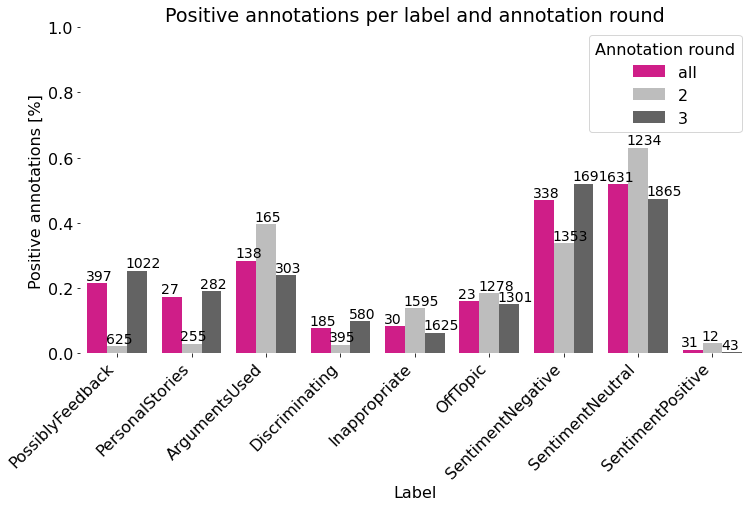
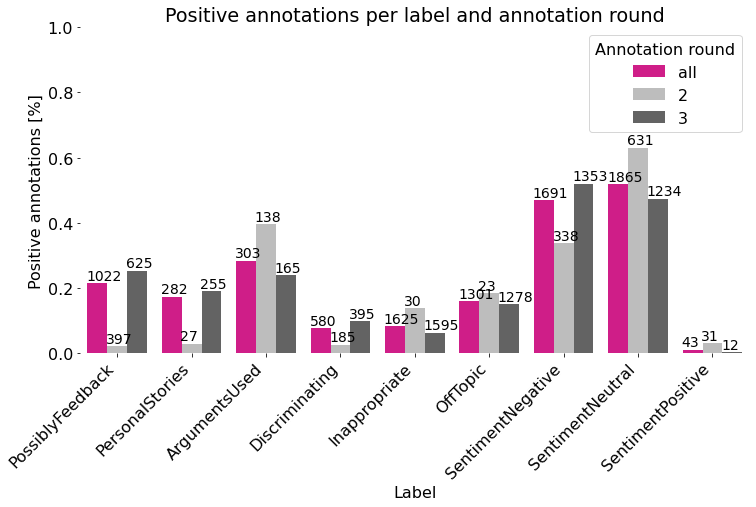
Issue #39 Fix function for annotating counts and update picture

diff --git a/eda_label_distribution.py b/eda_label_distribution.py
@@ -42,6 +42,8 @@ df_ann_counts = df_ann_ext.groupby(["category", "ann_round"])["value"].value_cou
 df_ann_counts
 
 
+# %%
+
 # %% [markdown]
 # ## Bar chart
 #
@@ -55,7 +57,8 @@ def add_annotation_with_hue(ax, absolute_values):
 
     Args:
         ax: The axes of the plot.
-        absolute_values: DataFrame with values to annotate (x lables of plot as index, hue lables as columns). 
+        absolute_values: DataFrame with values to annotate
+            (x lables of plot as index, hue lables as columns; the order must be equivalent to the order in the plot!).
     """
     labels = absolute_values.index.to_list()
     hue_categories = absolute_values.columns.to_list()
@@ -87,8 +90,8 @@ _ = g.set_xticklabels(
     horizontalalignment='right'
 )
 g.set_ylim(bottom=0, top=1);
-#add_counts(g, df_ann_counts.loc[:, 1])
-plt.savefig("./pictures/positive_annotations_per_label.png", bbox_inches="tight")
+add_annotation_with_hue(g, df_ann_counts.reindex(columns=["all", "2", "3"], level="ann_round").loc[:, 1])
+plt.savefig("./pictures/positive_annotations_per_label_with_count.png", bbox_inches="tight")
 
 # %% [markdown]
 # ## Stacked Bar Chart
